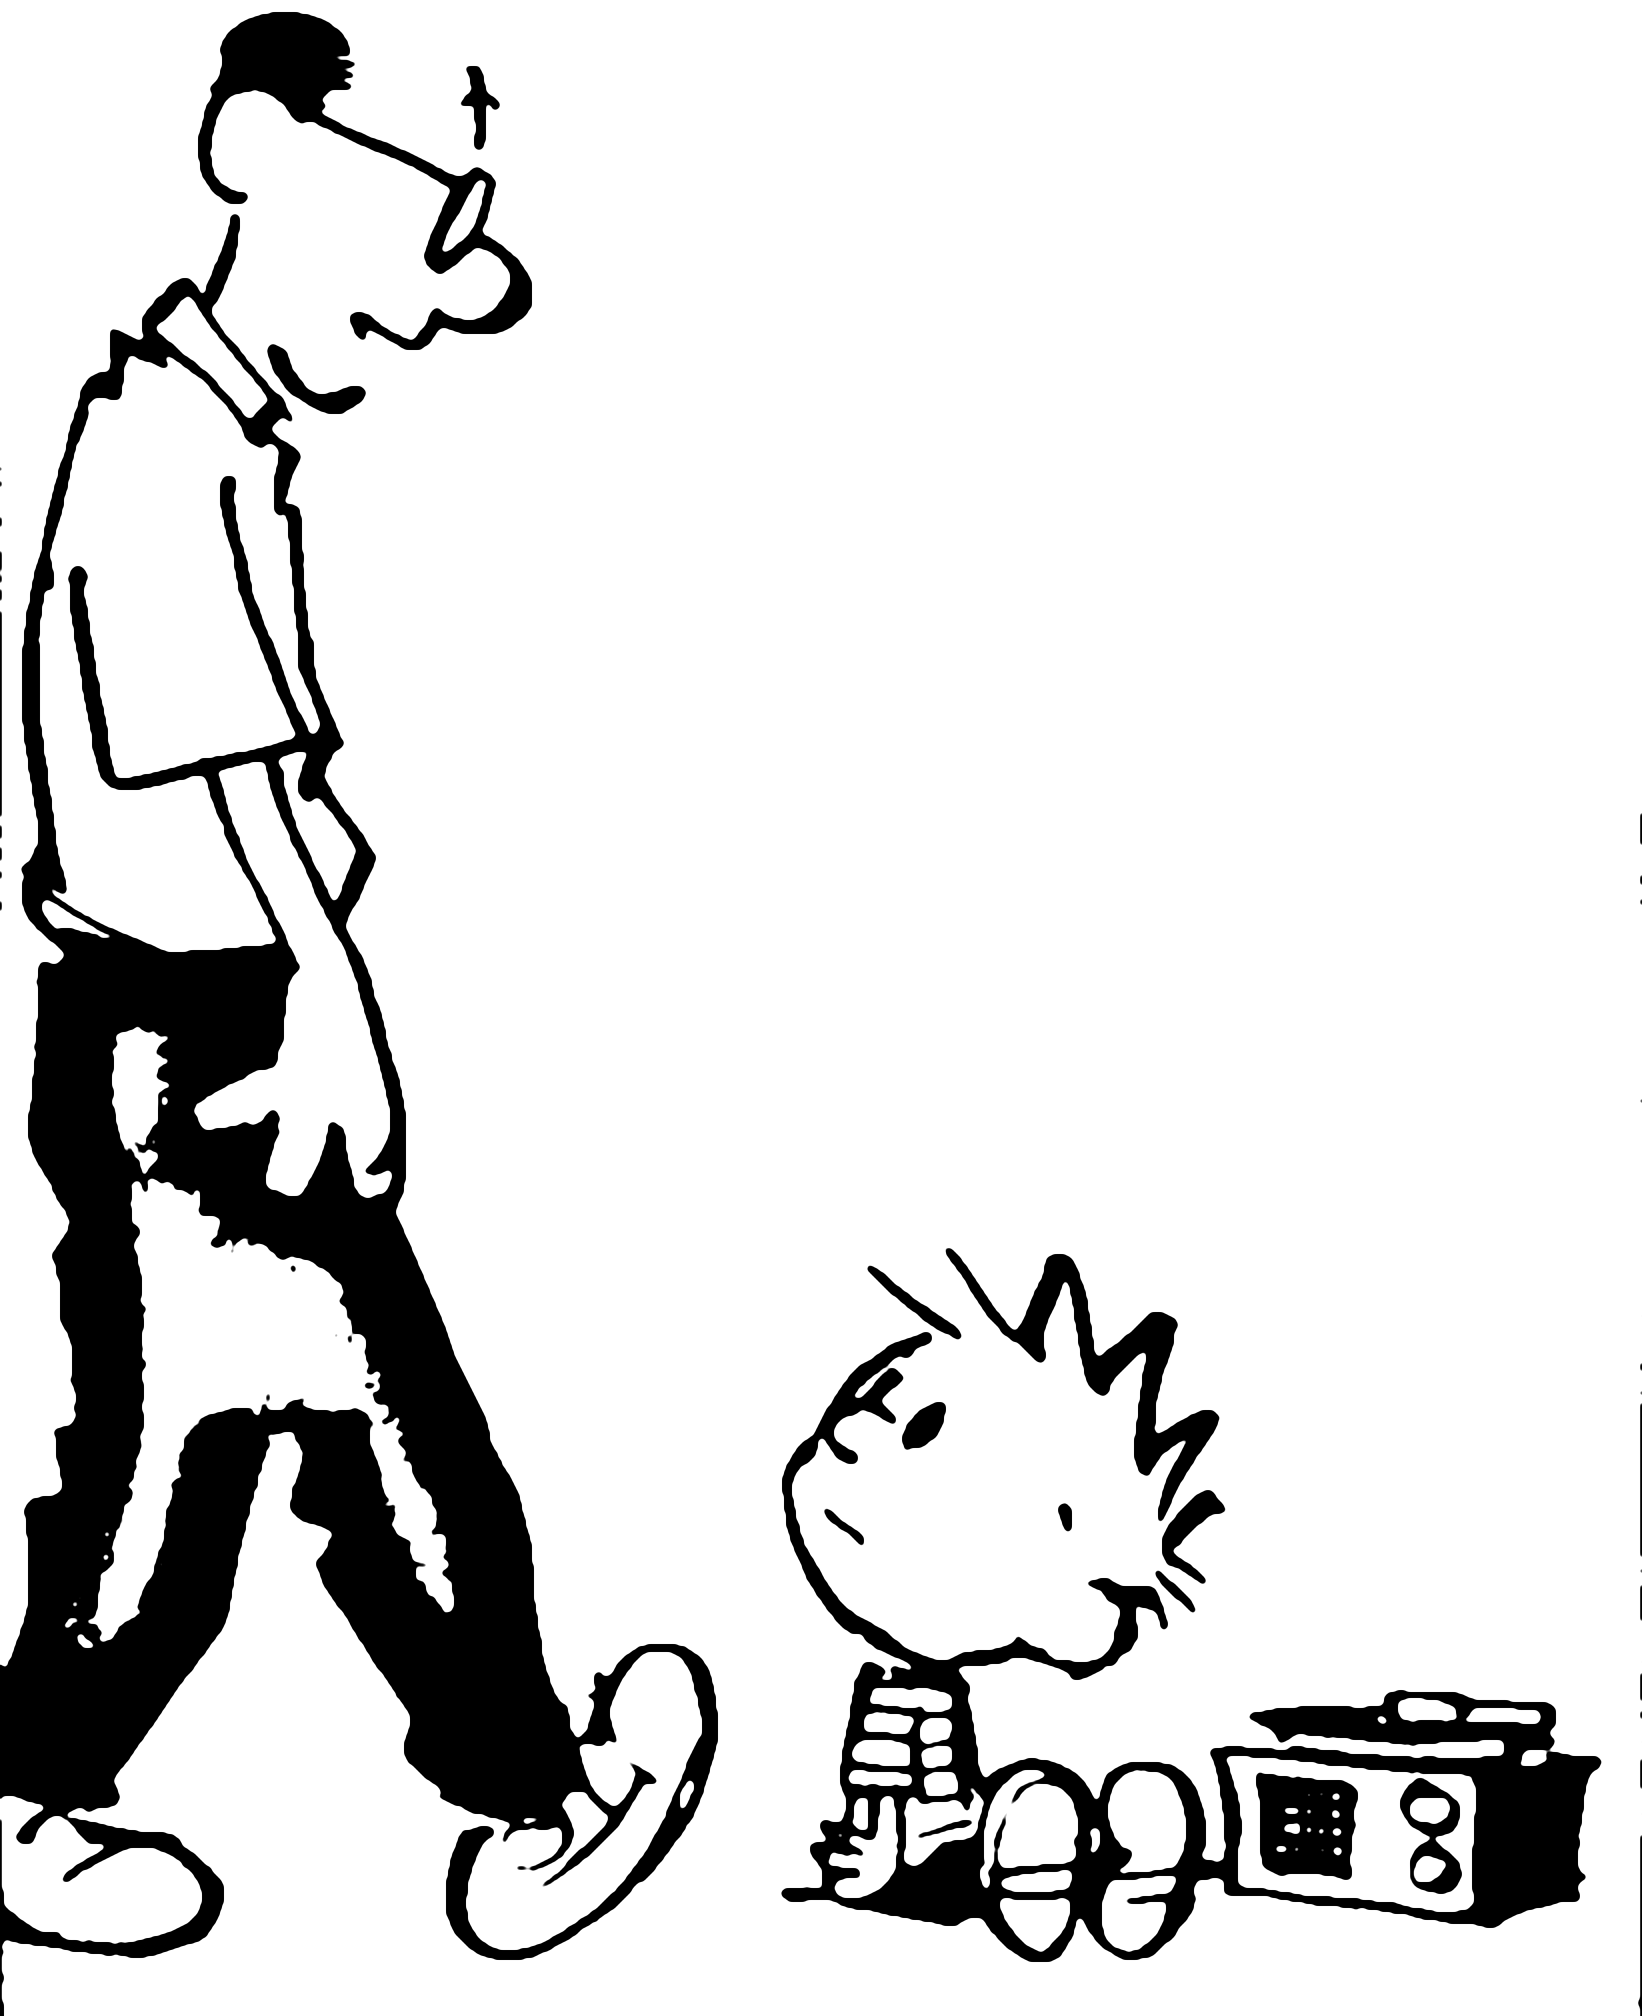
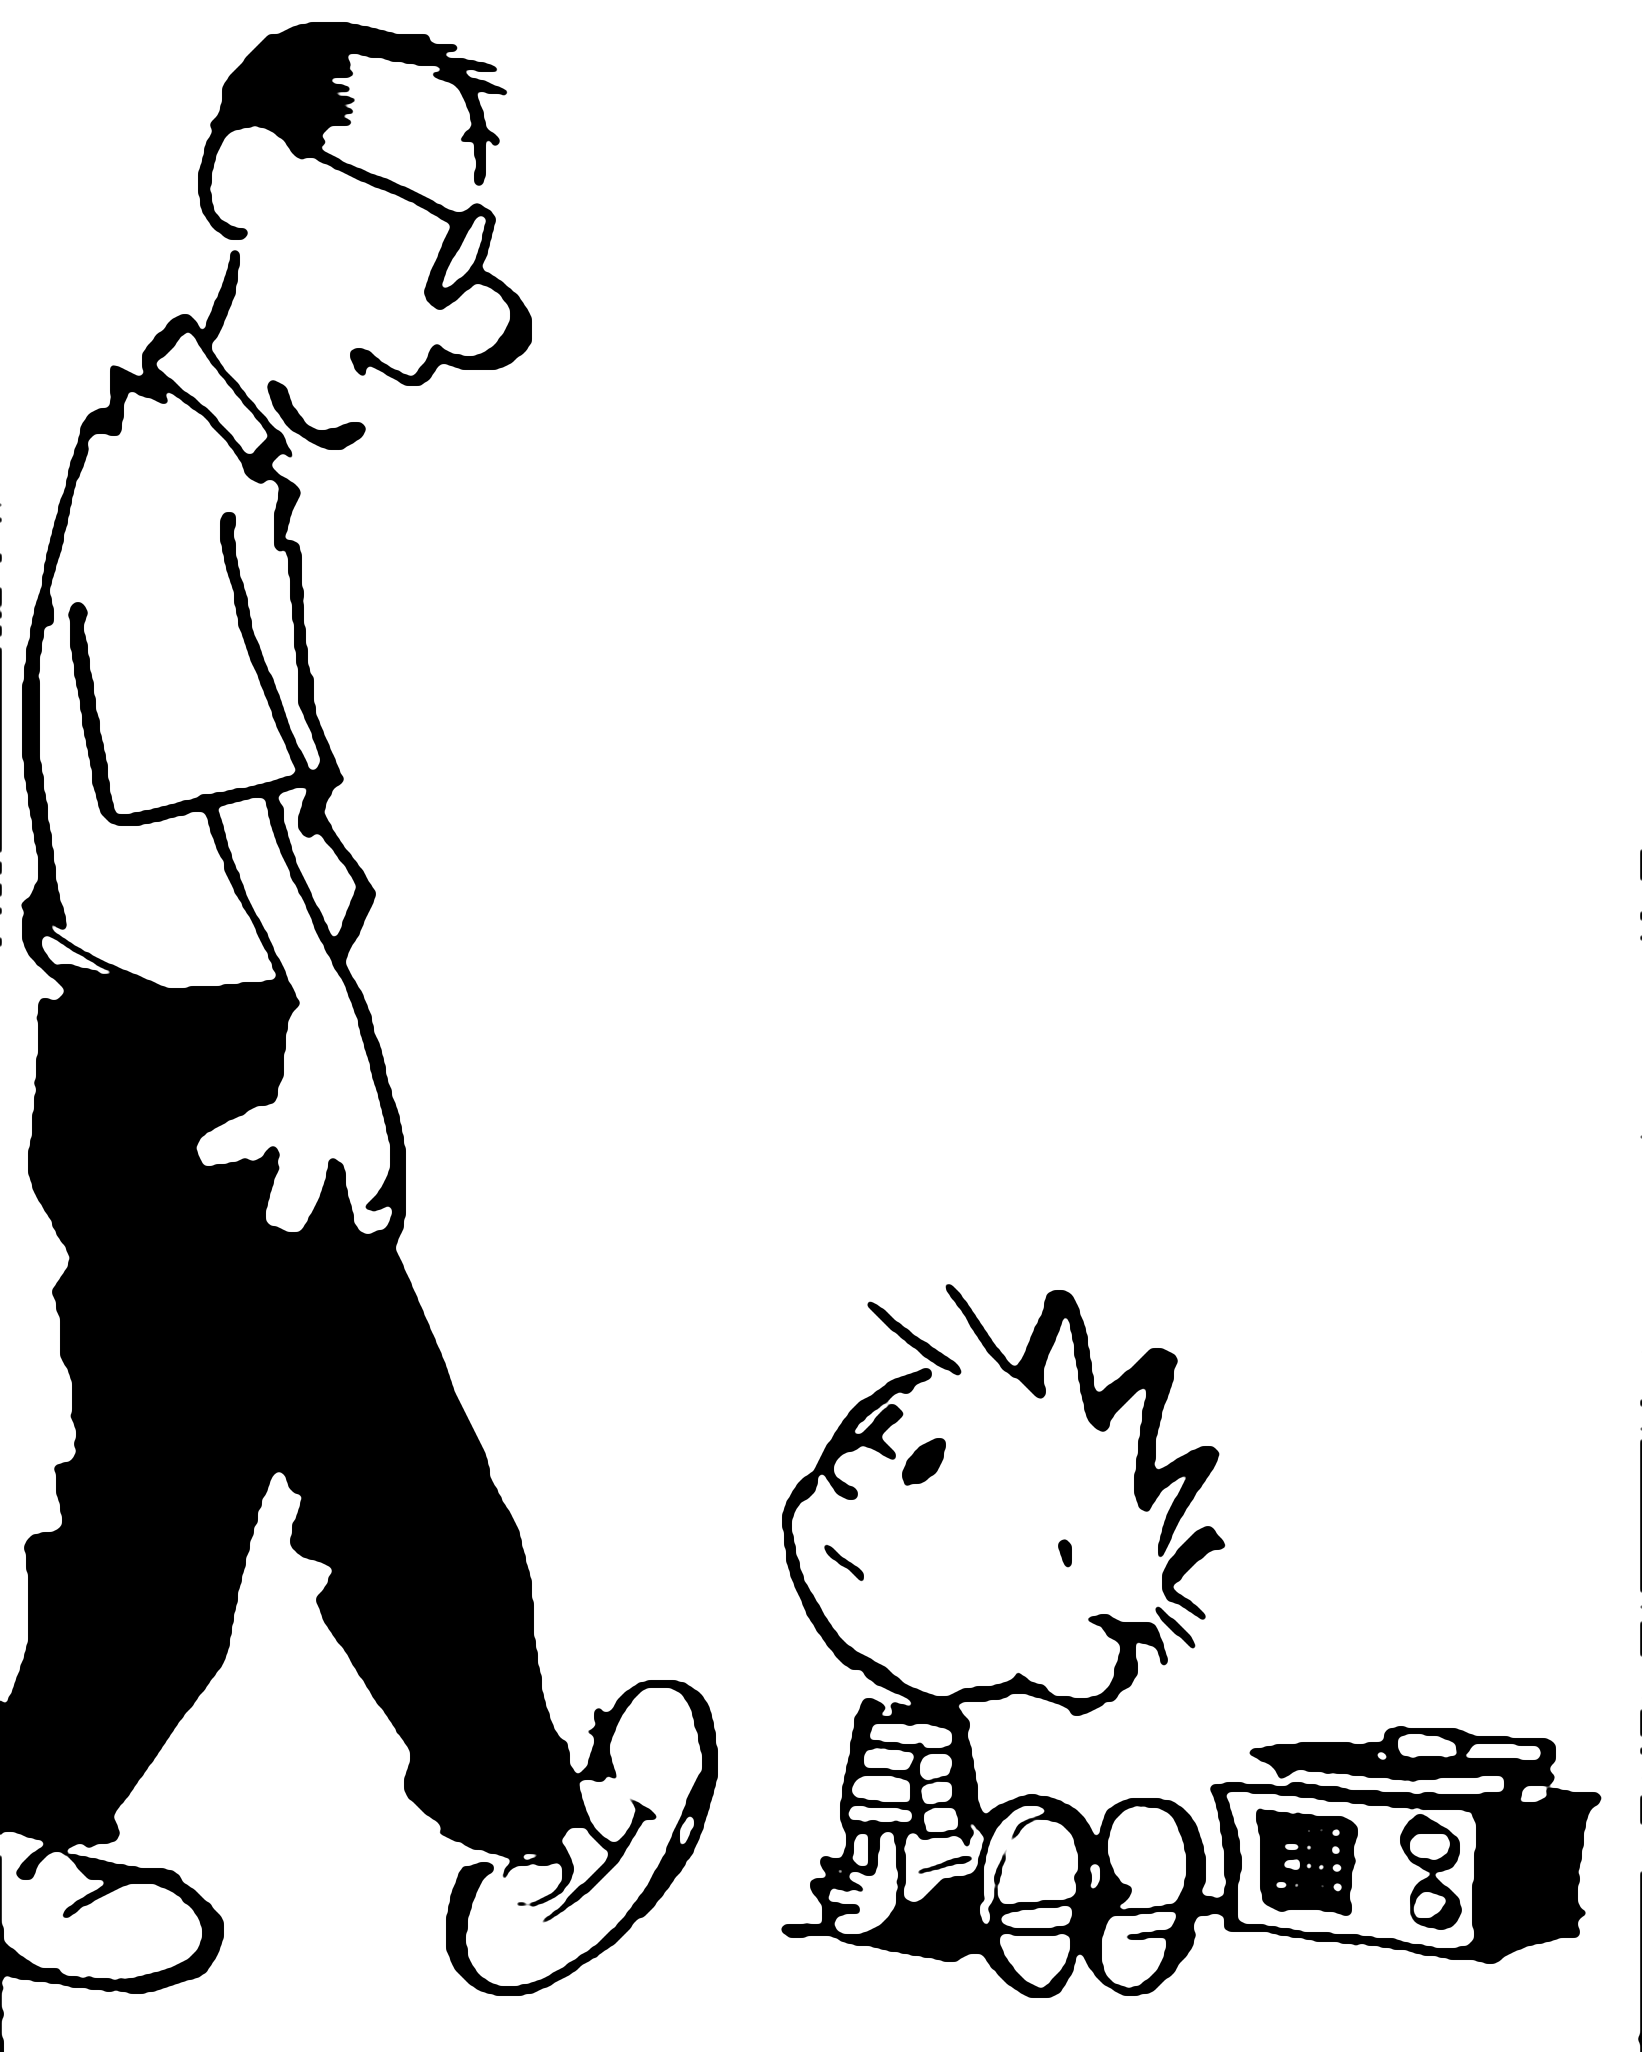
Restore Dad's head and trousers in panel 1
His head pokes up through the panel's top border, so the panel was
slicing it off; take the art from above the border instead and remove
just the border either side of him. His trousers' solid black is only in
the scan's background layer, so merge that layer into every panel, not
just the night panel.

diff --git a/tools/build_assets.py b/tools/build_assets.py
@@ -36,16 +36,14 @@ PANELS = [
         "box": (60, 1920, 881, 2902),
         # Dad's balloon and lettering. Only ink lying entirely inside these
         # regions is erased, so artwork that pokes into them survives.
-        "erase": [[(320, 1920), (881, 1920), (881, 2310), (320, 2310)]],
+        "erase": [[(320, 1876), (881, 1876), (881, 2310), (320, 2310)]],
         "speakers": {"dad": (270, 2065)},
         "text_bottom": 2520,
-        # The panel border crops the top of Dad's head, which looks wrong
-        # once the panel grows taller for the text. Add a little space above
-        # the art and round off his hair where the border cut it.
-        "extend_top": 26,
-        "hair": (202.5, 1920, 32, 20),
-        # A strand of hair also cut flat by the border.
-        "wipe": [[(284, 1920), (318, 1920), (318, 1926), (284, 1926)]],
+        # Dad's head pokes up through the top border, so take the art from
+        # above it and remove the border on either side of his head.
+        "art_top": 1876,
+        "wipe": [[(60, 1876), (160, 1876), (160, 1921), (60, 1921)],
+                 [(330, 1876), (881, 1876), (881, 1921), (330, 1921)]],
     },
     {
         "box": (924, 1920, 1720, 2902),
@@ -193,26 +191,15 @@ def main():
     meta = []
     lettering = []
     for number, panel in enumerate(PANELS, start=1):
-        x0, top, x1, y1 = panel["box"]
-        extend = panel.get("extend_top", 0)
-        y0 = top - extend
+        x0, y0, x1, y1 = panel["box"]
+        y0 = panel.get("art_top", y0)
 
         def local(points):
             return [((x - x0), (y - y0)) for x, y in points]
 
-        art = np.vstack([
-            np.zeros((extend, x1 - x0), dtype=bool),
-            ink[top:y1, x0:x1],
-        ])
-        if "hair" in panel:
-            cx, cy, rx, ry = panel["hair"]
-            cap = Image.new("L", (x1 - x0, y1 - y0), 0)
-            ImageDraw.Draw(cap).pieslice(
-                [cx - rx - x0, cy - ry - y0, cx + rx - x0, cy + ry - y0], 180, 360, fill=1
-            )
-            art = art | np.asarray(cap).astype(bool)
-        if panel.get("dark"):
-            art = art | (background[y0:y1, x0:x1] < 110)
+        # Solid blacks (Dad's trousers, the night in panel 4) are only in
+        # the low resolution background layer.
+        art = ink[y0:y1, x0:x1] | (background[y0:y1, x0:x1] < 110)
         art = wipe(art, [local(p) for p in panel.get("wipe", [])])
         art, heights = erase(art, [local(p) for p in panel["erase"]])
         lettering.extend(heights)

diff --git a/README.md b/README.md
@@ -29,9 +29,10 @@ Everything is static. On GitHub, enable Pages for the repository with
   panels from the scan's 1-bit ink layer, erases the lettering and balloons,
   smooths away the scan's pixelation, and records where text may go
   (`free`), where balloon tails may go (`open`) and how big Watterson's
-  lettering is (`capHeight`) in `assets/panels.json`. Panel 1 is extended a
-  little above the border, which crops Dad's head, with his hair rounded
-  off so it still looks right when the panel grows.
+  lettering is (`capHeight`) in `assets/panels.json`. Dad's head pokes up
+  through panel 1's top border, so that panel's art starts above the border.
+  Large solid blacks (Dad's trousers, the night in panel 4) are only in the
+  scan's low resolution background layer, so they're merged in from there.
 - The default lettering, Dad Lettering (`assets/fonts/dad-lettering.woff2`),
   is built from Watterson's own lettering; see below.
 - `js/layout.js` is the text-flow engine: it places text line by line,
